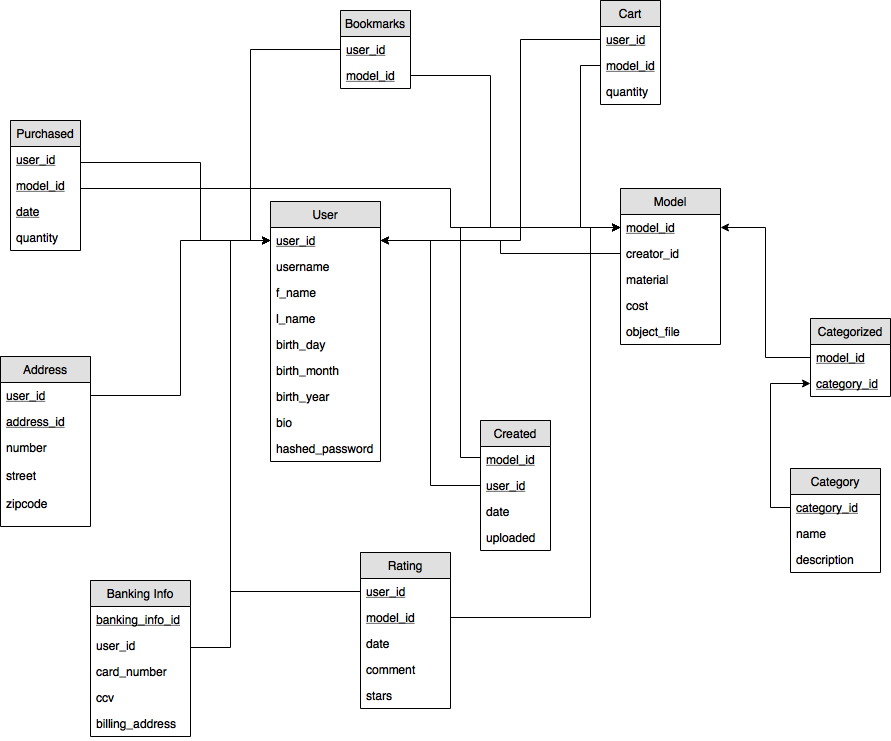
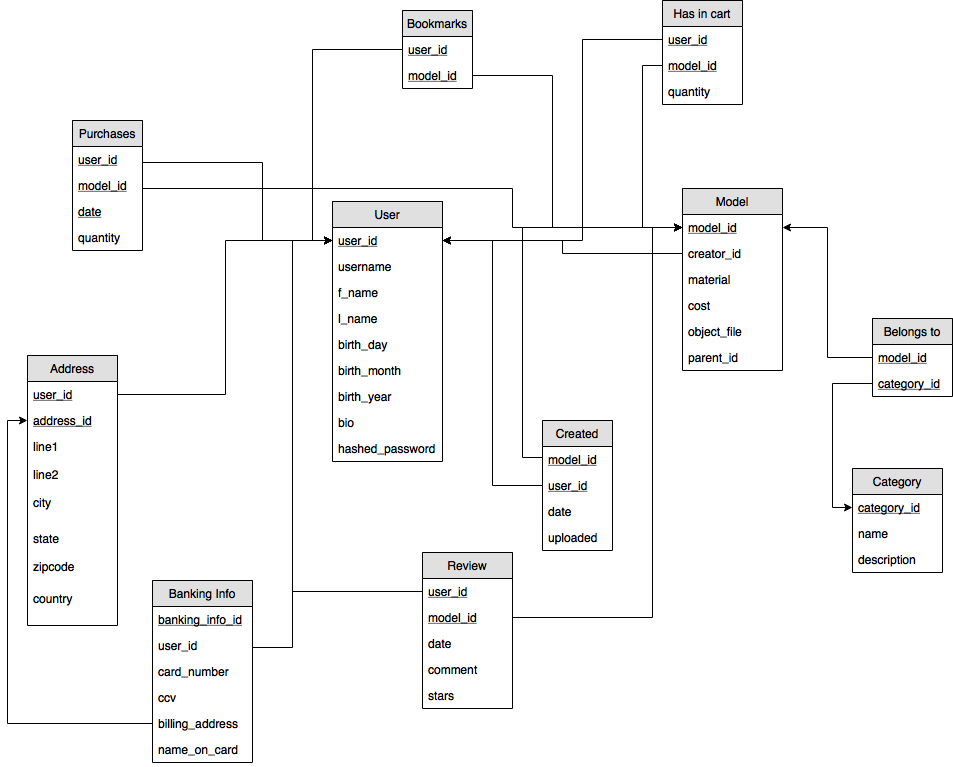
use case, schema, model updates

diff --git a/proposal/proposal.html b/proposal/proposal.html
@@ -10,28 +10,28 @@
   <body>
 	<h3>I. Introduction</h3> 
   <p>
-    We are building an application that allows users to order 3D printed models on demand as well as create/upload and share their own models. Users will be able to log into individual accounts with their own profile information and list of 3D models they have created and/or purchased. Users will also be able to browse the site for models that other users have created/uploaded. Along with the ability to upload models from third parties, users will be able to, in browser, create their own models that are saved and viewable by other users. Likewise users will be able to edit other people’s models and save the new modified models to their profile. Our database will be used not only to store basic user information such as name, userid, age, bio, purchasing history, created models, hashed password, and contact info/social media profiles. The database will also hold all of the model data including price, material, number of purchases, dimensions, category, and creator/editors. 
+    We are building an application that allows users to order 3D printed models on demand as well as create/upload and share their own models. Users will be able to log into individual accounts with their own profile information and list of 3D models they have created and/or purchased. Users will also be able to browse the site for models that other users have created/uploaded. Along with the ability to upload models from third parties, users will be able to, in browser, create their own models that are saved and viewable by other users. Likewise users will be able to edit other people’s models and save the new modified models to their profile. Our database will be used not only to store basic user information such as name, userid, age, bio, purchasing history, created models, hashed password, and contact info/social media profiles. The database will also hold all of the model data including price, material, number of purchases, dimensions, category, and creator. 
   </p>
 	<h3>II. Use Cases </h3>
 
     <p>
-      <!-- TODO: copy/edit these from gdoc !-->
       <ol>
         <li>As a user, as long as I am logged in to my account, I can add any model on the site to my cart, and it should stay in the cart until I check out or log in.</li>
+        <li>As a user, so that I don't have to re-enter my address and banking information every time I make a purchase, I would like to keep and address book and information pertaining to my credit cards.</li>
         <li>As a user, so I can purchase the same model again, I can look at my purchasing history and add the item to my cart from their instead of searching for it again.</li>
         <li>As a user, as long as I am logged into my account, I want to be able to create a model in my browser and save it. It should be available whenever I visit the site. </li>
-        <li>As a user who sees a model that I am interested in, I should be able to clone(fork) it into my own collection and modify it to my specifications.</li>
+        <li>As a user who sees a model that I am interested in, I should be able to fork (copy) it into my own collection and modify it to my specifications.</li>
         <li>As a user, I want to be able to edit my user information such as name and bio information so that I can have a custom unique profile.</li>
         <li>As a user, so that I can find models that pertain to my interests, I should be able to view a selection of models pertaining to specific categories. </li>
         <li>As a systems admin, to protect our customers information, we should keep all users behind a password wall with an encrypted hash.</li>
         <li>As a user, so that I can find a specific model, I should be able to search for it using the model’s name and other relevant attributes.</li>
-        <li>As a user who wants to find quality products, I should be able to leave and view a rating from 1-5 stars along with a comments about the rating.</li>
-        <li>As a user, on the homepage, I would like to see a small and interesting assortment of 3D models sorted by category such as featured and popular 3D models.</li>
-        <li>As a user, I would like to be able to upload a separate .OBJ file and add it to my profile.</li>
-        <li>As someone who is interested in the 3D models and would like to be able to browse and save my favorites, I should be able to sign up to have a user account with the site and be able to log in and view my saved information. </li>
+        <li>As a user who wants to share my experiences with any particular, I should be able to write one review giving 1-5 stars and comments for that model.</li>
+        <li>As a user, so that I can group my model with similar ones, I would like to be able to add my models to one or more categories.</li>
+        <li>As a user, so that I can save models created on other platforms to the site, I would like to be able to create a model based on an OBJ file I upload.</li>
+        <li>As someone who is interested in the 3D models and would like to be able to browse and save my favorites as bookmarks, I should be able to sign up to have a user account with the site and be able to log in and view my saved information. </li>
 
       </ol>
-  </p> <!-- TODO: finish Gantt chart, ER model and schema, add these in -->
+  </p>
   <h3>III. Gantt Chart</h3>
   <p style = "margin-left: 10px; margin-right: 10px; "><img src="Modular.png"/></p>
   <h3>IV. ER Diagram</h3>
